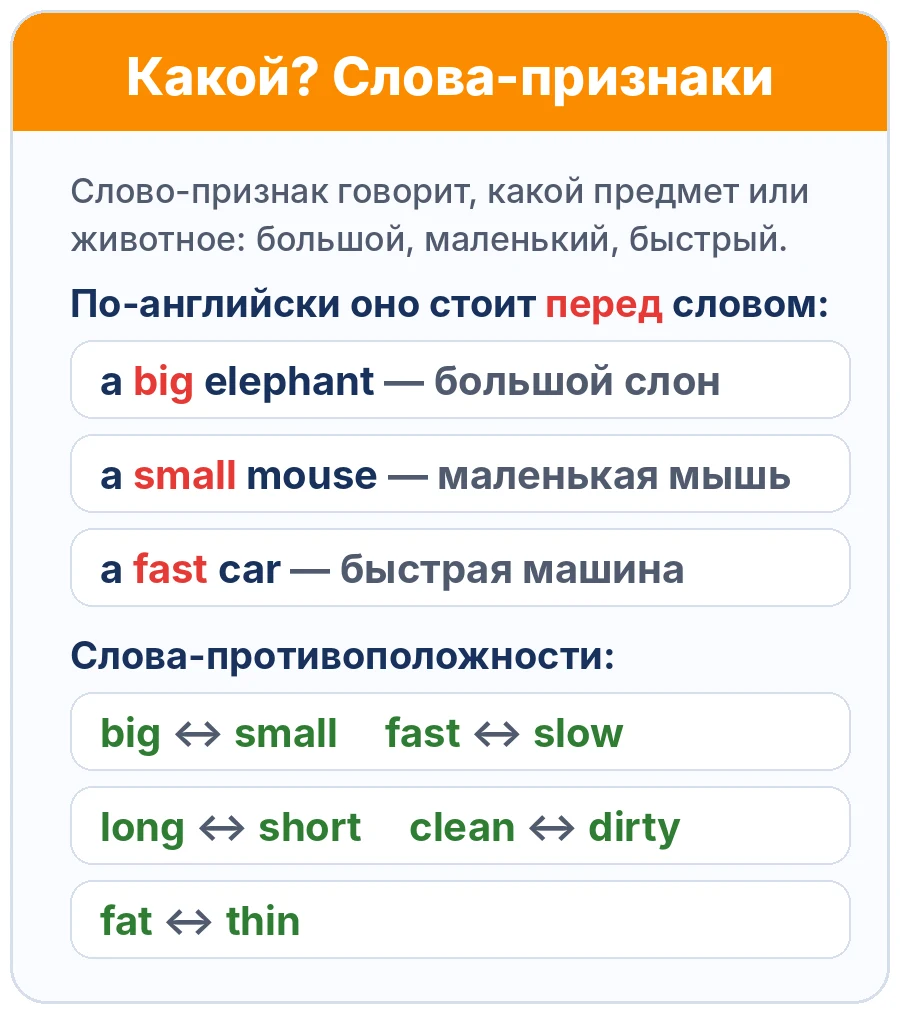
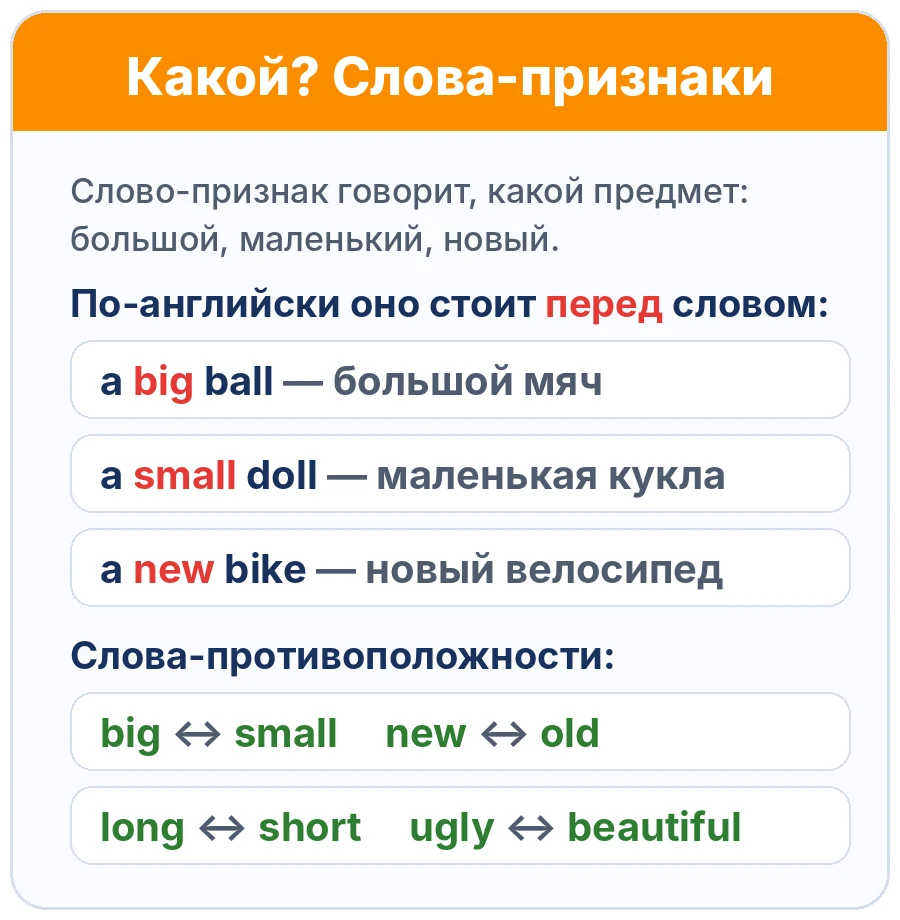
SM1 U2 HW3: карточки-правила на словах SM1 (big/small, new/old, long/short, ugly/beautiful); a — перед согласными
Claude-Session: https://claude.ai/code/session_01QwrfqDumvZwDrVd3ub3W1V

diff --git a/tools/sm1_rule_cards.py b/tools/sm1_rule_cards.py
@@ -1,0 +1,91 @@
+from PIL import Image, ImageDraw, ImageFont
+OUT='/home/user/classroom/media/sm1/old/'
+PRE='/tmp/claude-0/-home-user-classroom/1a6ce660-add2-54a8-875f-7eac683dcc65/scratchpad/c2/'
+FB='/usr/share/fonts/opentype/inter/Inter-Bold.otf'
+FR='/usr/share/fonts/opentype/inter/Inter-Medium.otf'
+FX='/usr/share/fonts/opentype/inter/Inter-ExtraBold.otf'
+def f(p,s): return ImageFont.truetype(p,s)
+INK=(23,49,92); MUTE=(80,90,110); A=(229,57,53); AN=(30,136,229)
+
+# ---- number cards 1..10 (same look as media/sm3/u0/num_*.webp)
+for n in range(1,11):
+    im=Image.new('RGB',(420,300),'white'); d=ImageDraw.Draw(im)
+    d.rounded_rectangle((18,18,402,282),34,fill=(243,247,253),outline=(200,214,232),width=4)
+    ft=f('/usr/share/fonts/truetype/dejavu/DejaVuSans-Bold.ttf',150)
+    d.text((210,152),str(n),font=ft,fill=INK,anchor='mm')
+    im.save(OUT+f'num_{n}.webp','WEBP',quality=88)
+
+# ---- colour cards
+cols={'yellow':(255,210,31),'red':(229,57,53),'orange':(251,140,0),'purple':(142,68,173),'blue':(30,136,229),'green':(67,160,71)}
+for k,c in cols.items():
+    S=4; im=Image.new('RGB',(300*S,300*S),'white'); d=ImageDraw.Draw(im)
+    dark=tuple(int(v*0.8) for v in c)
+    d.ellipse((40*S,40*S,260*S,260*S),fill=c,outline=dark,width=6*S)
+    d.ellipse((85*S,75*S,135*S,115*S),fill=tuple(min(255,int(v+(255-v)*0.55)) for v in c))
+    im.resize((300,300),Image.LANCZOS).save(OUT+f'color_{k}.webp','WEBP',quality=88)
+
+# ---- rule cards
+def wrap(d,text,font,maxw):
+    words=text.split(' '); lines=[]; cur=''
+    for w in words:
+        t=(cur+' '+w).strip()
+        if d.textlength(t,font=font)<=maxw: cur=t
+        else: lines.append(cur); cur=w
+    lines.append(cur); return lines
+def rich(d,x,y,parts,font):
+    for txt,col in parts:
+        d.text((x,y),txt,font=font,fill=col); x+=d.textlength(txt,font=font)
+def card(name,title,band,body):
+    W=900; im=Image.new('RGB',(W,1400),(250,251,255)); d=ImageDraw.Draw(im)
+    d.rectangle((0,0,W,120),fill=band)
+    d.text((W//2-10,66),title,font=f(FX,52),fill='white',anchor='mm')
+    y=160
+    for kind,val in body:
+        if kind=='p':
+            for ln in wrap(d,val,f(FR,34),W-120):
+                d.text((60,y),ln,font=f(FR,34),fill=MUTE); y+=48
+            y+=14
+        elif kind=='ex':   # list of (parts) big examples
+            for parts in val:
+                d.rounded_rectangle((60,y,W-60,y+78),22,fill='white',outline=(214,222,236),width=2)
+                rich(d,90,y+16,parts,f(FB,40)); y+=94
+            y+=10
+        elif kind=='h':
+            rich(d,60,y,val,f(FB,38)); y+=60
+    im=im.crop((0,0,W-20,y+20))
+    out=Image.new('RGB',(W,y+40),'white')
+    m=Image.new('L',im.size,0); ImageDraw.Draw(m).rounded_rectangle((0,0,im.width-1,im.height-1),36,fill=255)
+    out.paste(im.crop((0,0,im.width,im.height)),(10,10),m)
+    ImageDraw.Draw(out).rounded_rectangle((10,10,W-11,y+29),36,outline=(214,222,236),width=3)
+    im=out
+    im.save(OUT+name+'.webp','WEBP',quality=88); im.save(PRE+name+'.png')
+
+G=(46,125,50)
+card('u2_hw3_rule_adjectives','Какой? Слова-признаки',(251,140,0),[
+  ('p','Слово-признак говорит, какой предмет: большой, маленький, новый.'),
+  ('h',[('По-английски оно стоит ',INK),('перед',(229,57,53)),(' словом:',INK)]),
+  ('ex',[[('a ',INK),('big',(229,57,53)),(' ball',INK),(' — большой мяч',MUTE)],
+         [('a ',INK),('small',(229,57,53)),(' doll',INK),(' — маленькая кукла',MUTE)],
+         [('a ',INK),('new',(229,57,53)),(' bike',INK),(' — новый велосипед',MUTE)]]),
+  ('h',[('Слова-противоположности:',INK)]),
+  ('ex',[[('big ',G),('↔',MUTE),(' small     ',G),('new ',G),('↔',MUTE),(' old',G)],
+         [('long ',G),('↔',MUTE),(' short     ',G),('ugly ',G),('↔',MUTE),(' beautiful',G)]]),
+])
+card('u2_hw3_rule_a_an','a или an?',(30,136,229),[
+  ('h',[('an',AN),(' — если слово начинается',INK)]),
+  ('p','с гласного звука: a, e, i, o, u'),
+  ('ex',[[('an',AN),(' apple',INK),('   ',INK),('an',AN),(' egg',INK),('   ',INK),('an',AN),(' elephant',INK)]]),
+  ('h',[('a',A),(' — если слово начинается с согласного',INK)]),
+  ('ex',[[('a',A),(' cat',INK),('   ',INK),('a',A),(' dog',INK),('   ',INK),('a',A),(' ball',INK)]]),
+  ('p','Смотри на слово сразу после a / an:'),
+  ('ex',[[('an',AN),(' old car',INK),(',  но  ',MUTE),('a',A),(' new car',INK)]]),
+])
+
+# ---- friends: four heroes together
+L='/home/user/classroom/media/sm1/legacy/'
+hs=[Image.open(L+x+'.webp').convert('RGBA') for x in ['eb68810585d6','32dd089617ca','af307dbdc2ee','746c511616d8']]
+H=300; hs=[h.resize((round(h.width*H/h.height),H),Image.LANCZOS) for h in hs]
+W=sum(h.width for h in hs)+20*5
+im=Image.new('RGB',(W,H+40),'white'); x=20
+for h in hs: im.paste(h,(x,20),h); x+=h.width+20
+im.save(OUT+'u0_friends.webp','WEBP',quality=85)
